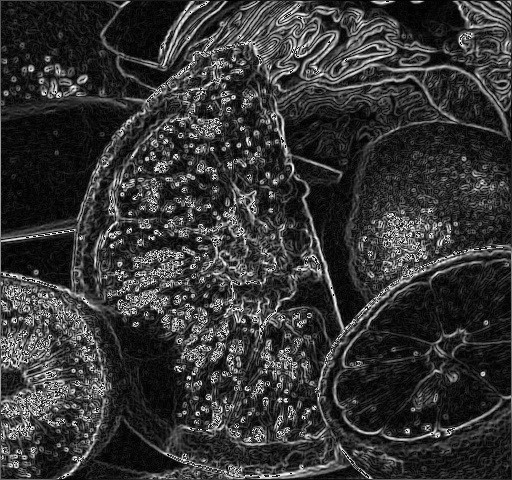
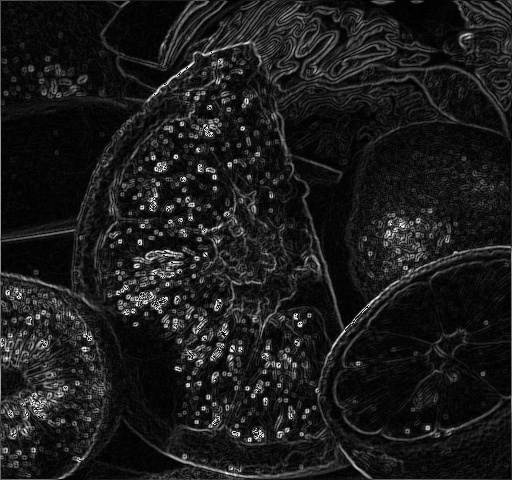
problem1_1の調整)

diff --git a/OpenCVKadai/problem1_1.cpp b/OpenCVKadai/problem1_1.cpp
@@ -1,7 +1,7 @@
 #include <opencv2/opencv.hpp>
 #include <stdio.h>
 
-#define FLAG 0 // (0: direct access / 1: built-in function)
+#define FLAG 1 // (0: direct access / 1: built-in function)
 #define BLUR_LEVEL 5
 
 
@@ -146,7 +146,14 @@ void convertColorToBlur(cv::Mat &input, cv::Mat &blur){
 
 void findEdge(cv::Mat &input, cv::Mat &edge){//inputはgrayにされたもの
 #if FLAG
-  cv::Sobel(input, edge, -1, 1, 1, 5);
+  cv::Mat grad_x, grad_y;
+  cv::Mat abs_grad_x, abs_grad_y;
+
+  cv::Sobel(input, grad_x, -1, 1, 0, 3);
+  cv::convertScaleAbs(grad_x, abs_grad_x);
+  cv::Sobel(input, grad_y, -1, 0, 1, 3);
+  cv::convertScaleAbs(grad_y, abs_grad_y);
+  cv::addWeighted(abs_grad_x, 0.5, abs_grad_y, 0.5, 0, edge);
  
 #else
   cv::Size s=input.size();
@@ -199,12 +206,11 @@ void findEdge(cv::Mat &input, cv::Mat &edge){//inputはgrayにされたもの
 	  tmpVS2 += a * filterVS2[l+1][k+1];
 	}
       }
-      tmp = sqrt(tmpHS1*tmpHS1 + tmpVS1*tmpVS1 + tmpHS2*tmpHS2 + tmpVS2*tmpVS2);
+      //tmp = sqrt(/*tmpHS1*tmpHS1 +*/ tmpVS1*tmpVS1 /* + tmpHS2*tmpHS2*/ + tmpVS2*tmpVS2);
+      tmp = 0.5 * (abs(tmpVS1) + abs(tmpHS2));
       //printf("tmpHS = %lf, tmpVS = %lf", tmpHS, tmpVS);
       *ptr2 = (uchar)tmp;
     }
   }
 #endif
 }
-
-
